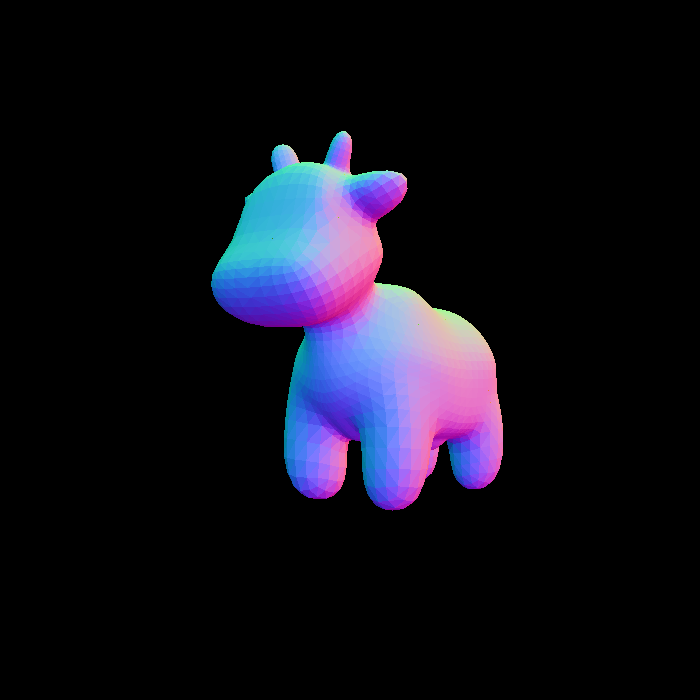
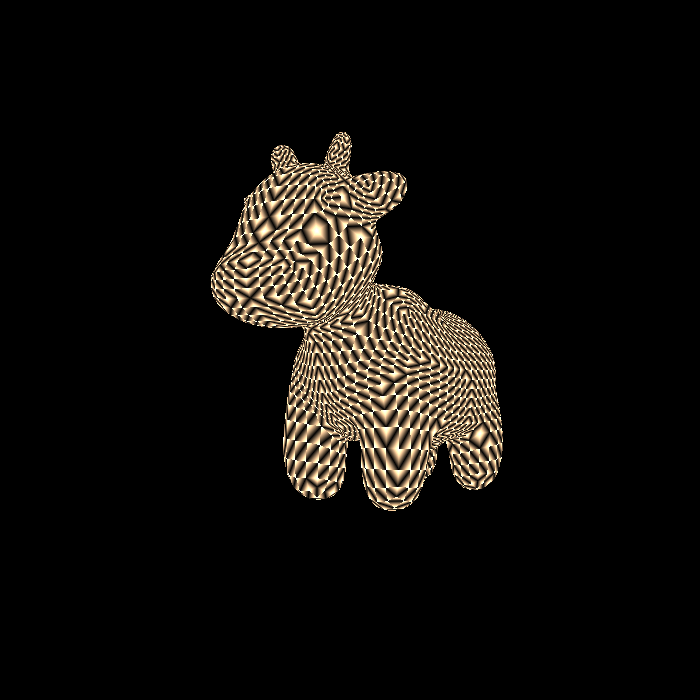
提交

Changed region(s): [[0.3, 0.18, 0.72, 0.75]]

diff --git a/rasterizer.cpp b/rasterizer.cpp
@@ -152,7 +152,7 @@ auto to_vec4(const Eigen::Vector3f& v3, float w = 1.0f)
     return Vector4f(v3.x(), v3.y(), v3.z(), w);
 }
 
-static bool insideTriangle(int x, int y, const Vector4f* _v){
+static bool insideTriangle(float x, float y, const Vector4f* _v){ //bug  int
     Vector3f v[3];
     for(int i=0;i<3;i++)
         v[i] = {_v[i].x(),_v[i].y(), 1.0};
@@ -327,22 +327,16 @@ void rst::rasterizer::rasterize_triangle(const Triangle& t, const std::array<Eig
                 z_interpolated = alpha * v[0].z() / v[0].w() + beta * v[1].z() / v[1].w() + gamma * v[2].z() / v[2].w();
                 z_interpolated *= w_reciprocal;
                 if (z_interpolated< depth_buf[index]) {
-                    interpolated_color= alpha * t.color[0] / v[0].w() + beta * t.color[1] / v[1].w() + gamma * t.color[2] / v[2].w();
-                    interpolated_color *= w_reciprocal;
-
-                    interpolated_normal = alpha * t.normal[0] / v[0].w() + beta * t.normal[1] / v[1].w() + gamma * t.normal[2] / v[2].w();
-                    interpolated_normal *= w_reciprocal;
-
-                    interpolated_texcoords = alpha * t.tex_coords[0] / v[0].w() + beta * t.tex_coords[1] / v[1].w() + gamma * t.tex_coords[2] / v[2].w();
-                    interpolated_texcoords *= w_reciprocal;
-
-                    //interpolated_shadingcoords = alpha * t.tex_coords[0] / v[0].w() + beta * t.tex_coords[1] / v[1].w() + gamma * t.tex_coords[2] / v[2].w();
-                    //interpolated_shadingcoords *= w_reciprocal;
+                    interpolated_color = interpolate(alpha, beta, gamma, t.color[0], t.color[1], t.color[2], 1.0f);
+                    interpolated_normal = interpolate(alpha, beta, gamma, t.normal[0], t.normal[1], t.normal[2],1.0f);
+                    interpolated_texcoords = interpolate(alpha, beta, gamma, t.tex_coords[0], t.tex_coords[1], t.tex_coords[2], 1.0f);
+                    interpolated_shadingcoords = interpolate(alpha, beta, gamma, view_pos[0], view_pos[1], view_pos[2], 1.0f);
 
                     fragment_shader_payload payload(interpolated_color, interpolated_normal.normalized(), interpolated_texcoords, &texture);
                     payload.view_pos = interpolated_shadingcoords;
                     auto pixel_color = fragment_shader(payload);
                     set_pixel({ i,j }, pixel_color);
+
                     depth_buf[index] = z_interpolated;
                 }
                 

diff --git a/main.cpp b/main.cpp
@@ -155,16 +155,21 @@ Eigen::Vector3f phong_fragment_shader(const fragment_shader_payload& payload)
     Eigen::Vector3f color = payload.color;
     Eigen::Vector3f point = payload.view_pos;
     Eigen::Vector3f normal = payload.normal;
+    Eigen::Vector3f l;
 
     Eigen::Vector3f result_color = {0, 0, 0};
     for (auto& light : lights)
     {
         // TODO: For each light source in the code, calculate what the *ambient*, *diffuse*, and *specular* 
         // components are. Then, accumulate that result on the *result_color* object.
+        l = (light.position - point).normalized();
+        float r2 = (light.position - point).dot(light.position - point);
+        Eigen::Vector3f diffuse = kd.cwiseProduct(light.intensity / r2) * MAX(0, normal.dot(l));
+        result_color += diffuse;
         
     }
 
-    return result_color * 255.f;
+    return color * 255.f;
 }
 
 
@@ -300,7 +305,7 @@ int main(int argc, const char** argv)
     auto texture_path = "hmap.jpg";
     r.set_texture(Texture(obj_path + texture_path));
 
-    std::function<Eigen::Vector3f(fragment_shader_payload)> active_shader = normal_fragment_shader; //normal_fragment_shader; //phong_fragment_shader;
+    std::function<Eigen::Vector3f(fragment_shader_payload)> active_shader = phong_fragment_shader; //normal_fragment_shader; //phong_fragment_shader;
 
     if (argc >= 2)
     {
